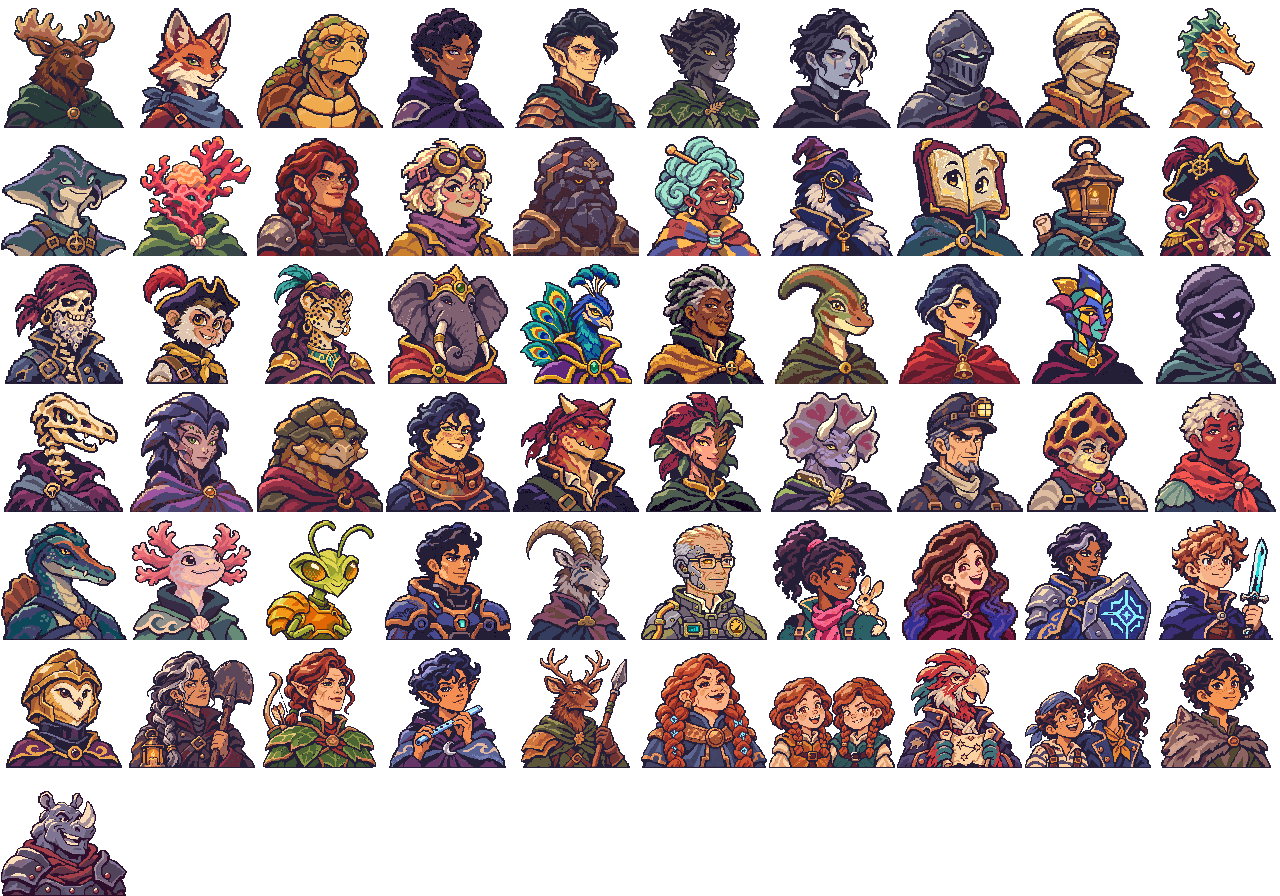
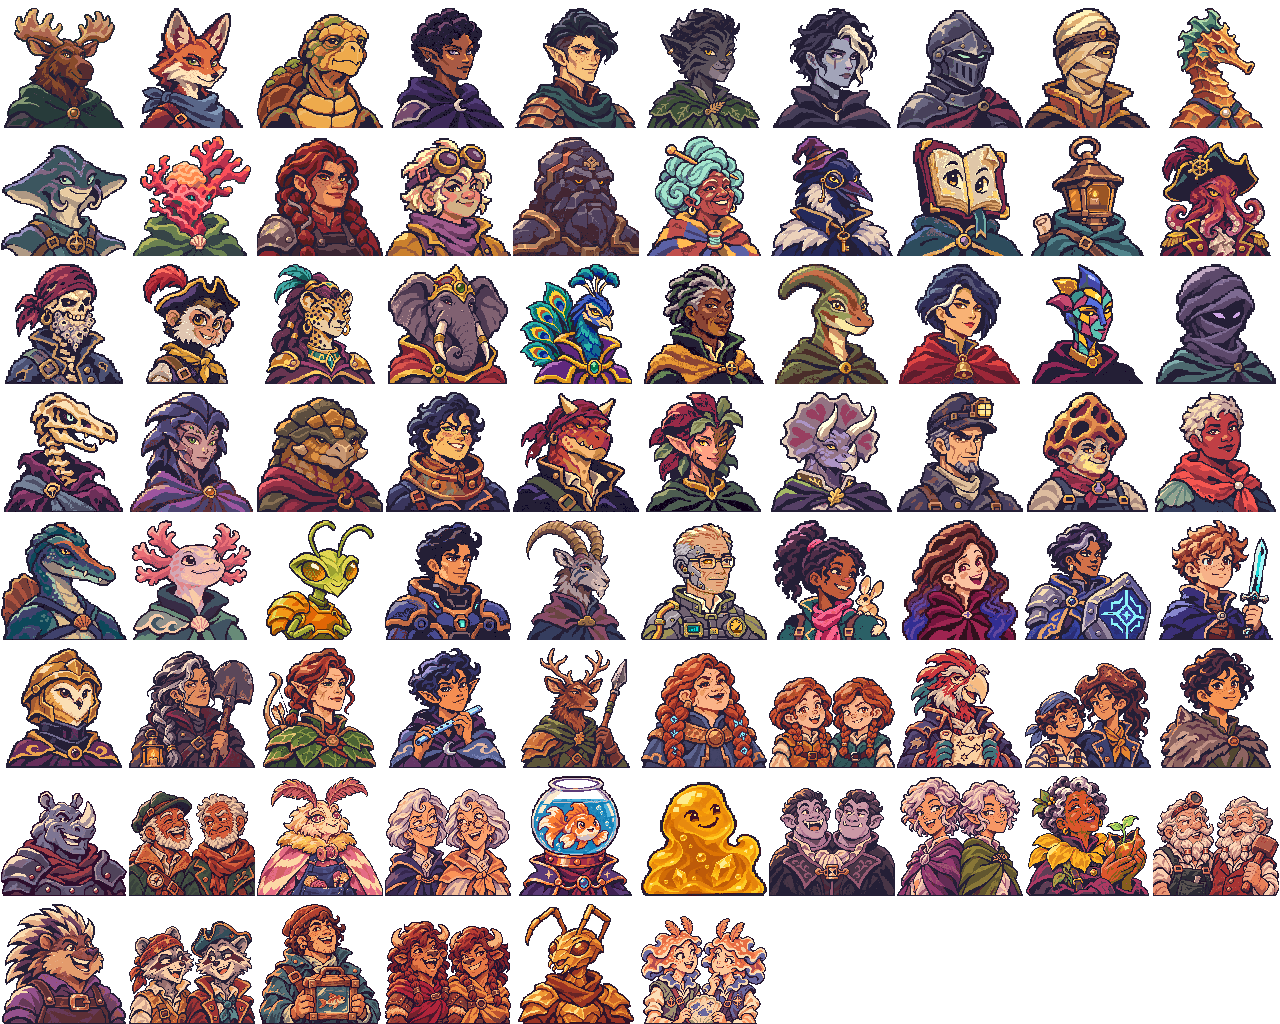
v45: Twins & Tavern Heroes (15 heroes), Merfolk complete, rogue Briar renamed Rusty
Claude-Session: https://claude.ai/code/session_019G5bQC3KGAYpQSZdre1Ejx

diff --git a/js/01-data.js b/js/01-data.js
@@ -186,7 +186,7 @@ HEROES.push(
   {id:'slack',name:'Slack',fac:'dwarves',type:'Might',st:[2,1,2,1],ab:'Hammer and Hex',ad:'Young Dwarves +2 attack, and Ember Dart deals 50% more. Starts with a spellbook.',sk:[],sp:['ember'],fx:{unitAtk:{delver:2},emberPct:1.5}},
   /* v39: each banner shows six heroes (pickers, rivals' first heroes); one more per banner has tav:true and is only met in the tavern ("on the road"). Rogues have no banner. */
   {id:'alderhide',name:'Alderhide',fac:'elves',type:'Might',st:[2,2,1,1],ab:'Moose Guardian',ad:'Elven Riders +1 attack and +2 defense.',sk:['shieldcraft'],sp:[],fx:{unitAtk:{rider:1},unitDef:{rider:2}}},
-  {id:'briar',rogue:true,name:'Briar',fac:'centaurs',type:'Might',st:[2,1,1,1],ab:'Fox Scout',ad:'+2 vision and +10% movement.',sk:['farsight'],sp:[],fx:{vision:2,mpPct:10}},
+  {id:'briar',rogue:true,name:'Rusty',fac:'centaurs',type:'Might',st:[2,1,1,1],ab:'Fox Scout',ad:'+2 vision and +10% movement.',sk:['farsight'],sp:[],fx:{vision:2,mpPct:10}},
   {id:'mossback',name:'Mossback',fac:'elves',type:'Magic',st:[0,2,2,2],ab:'Tortoise Herbalist',ad:'Your whole army +1 defense.',sk:['meditation'],sp:['mend'],fx:{armyDef:1}},
   {id:'ilyra',retired:true,name:'Ilyra',fac:'elves',type:'Magic',st:[0,1,2,2],ab:'Moon Sentinel',ad:'Sprites +3 growth per week and +1 speed.',sk:['arcane'],sp:['entangle'],fx:{growth:{sprite:3},unitSpd:{sprite:1}}},
   {id:'tavian',retired:true,name:'Tavian',fac:'elves',type:'Might',st:[2,1,1,1],ab:'Veteran Duelist',ad:'Elven Riders +2 attack and +1 speed.',sk:['bladework'],sp:[],fx:{unitAtk:{rider:2},unitSpd:{rider:1}}},
@@ -248,6 +248,21 @@ HEROES.push(
   {id:'sid_and_tess',tav:true,name:'Sid & Tess',fac:'pirates',type:'Might',st:[2,1,1,2],ab:'Sibling Swabs',ad:'Deckhands +3 growth per week and +1 speed.',sk:['fortune'],sp:[],fx:{growth:{deckhand:3},unitSpd:{deckhand:1}}},
   {id:'wren',tav:true,name:'Wren',fac:'centaurs',type:'Might',st:[2,1,1,2],ab:'Beast Tamer',ad:'Hounds +2 attack and +2 speed.',sk:['command'],sp:[],fx:{unitAtk:{hounds:2},unitSpd:{hounds:2}}},
   {id:'rumble',tav:true,name:'Rumble',fac:'centaurs',type:'Might',st:[3,2,0,1],ab:'Rhino Brawler',ad:'Boars +2 attack and +1 speed.',sk:['shieldcraft'],sp:[],fx:{unitAtk:{boar:2},unitSpd:{boar:1}}},
+  {id:'gus_and_glen',tav:true,name:'Gus & Glen',fac:'rangers',type:'Might',st:[1,3,1,1],ab:'Trail Wardens',ad:'Thornguard +2 defense, and +10% movement.',sk:['forcedmarch'],sp:[],fx:{unitDef:{thorn:2},mpPct:10}},
+  {id:'midge',tav:true,name:'Midge',fac:'rangers',type:'Magic',st:[0,1,2,3],ab:'Moth Dyer',ad:'Moth Seers +2 attack and +1 speed.',sk:['meditation'],sp:['mend'],fx:{unitAtk:{moth:2},unitSpd:{moth:1}}},
+  {id:'mags_and_mae',tav:true,name:'Mags & Mae',fac:'wizards',type:'Magic',st:[0,1,3,2],ab:'Twin Astronomers',ad:'Storm Elementals +2 attack and +1 speed.',sk:['arcane'],sp:['swift'],fx:{unitAtk:{stormel:2},unitSpd:{stormel:1}}},
+  {id:'bloop',tav:true,name:'Bloop',fac:'wizards',type:'Magic',st:[0,1,2,3],ab:'Fishbowl Sage',ad:'Owl Familiars +3 growth per week and +1 speed.',sk:['learning'],sp:['ember'],fx:{growth:{owl:3},unitSpd:{owl:1}}},
+  {id:'gleam',tav:true,name:'Gleam',fac:'wizards',type:'Magic',st:[0,2,2,2],ab:'Golden Ooze',ad:'+150 gold a day, and Earth Elementals +1 defense.',sk:['estates'],sp:['chain'],fx:{goldDay:150,unitDef:{earthel:1}}},
+  {id:'odo_and_otto',tav:true,name:'Odo & Otto',fac:'necro',type:'Might',st:[3,2,0,1],ab:'Two-Headed Undertakers',ad:'Skeletons +2 attack and +2 defense.',sk:['bladework'],sp:[],fx:{unitAtk:{skeleton:2},unitDef:{skeleton:2}}},
+  {id:'aster_and_briar',tav:true,name:'Aster & Briar',fac:'elves',type:'Magic',st:[0,2,2,2],ab:'Seed Keepers',ad:'Grove Wardens +3 growth per week and +1 defense.',sk:['meditation'],sp:['mend'],fx:{growth:{dryad:3},unitDef:{dryad:1}}},
+  {id:'rue',tav:true,name:'Rue',fac:'elves',type:'Magic',st:[0,1,2,3],ab:'Sunflower Witch',ad:'Mend heals 50% more, and your whole army +1 luck.',sk:['fortune'],sp:['mend'],fx:{mendPct:1.5,luck:1}},
+  {id:'ned_and_nat',tav:true,name:'Ned & Nat',fac:'dwarves',type:'Might',st:[2,2,1,1],ab:'Twin Stonecutters',ad:'Dwarf Crossbowmen +2 attack and +2 defense.',sk:['shieldcraft'],sp:[],fx:{unitAtk:{bolt:2},unitDef:{bolt:2}}},
+  {id:'spike',tav:true,name:'Spike',fac:'dwarves',type:'Might',st:[2,3,0,1],ab:'Porcupine Armorer',ad:'Your whole army +1 defense, and Dwarf Paladins +1 attack.',sk:['shieldcraft'],sp:[],fx:{armyDef:1,unitAtk:{paladin:1}}},
+  {id:'rafe_and_reed',tav:true,name:'Rafe & Reed',fac:'pirates',type:'Might',st:[2,1,1,2],ab:'Salvage Captains',ad:'+150 gold a day, and Duelists +1 attack.',sk:['seamanship'],sp:[],fx:{goldDay:150,unitAtk:{duelist:1}}},
+  {id:'bo',tav:true,name:'Bo',fac:'pirates',type:'Might',st:[2,1,1,2],ab:'Fish-Box Courier',ad:'+15% movement, and Powder Monkeys +1 speed.',sk:['forcedmarch'],sp:[],fx:{mpPct:15,unitSpd:{powder:1}}},
+  {id:'bess_and_bea',tav:true,name:'Bess & Bea',fac:'centaurs',type:'Might',st:[2,3,0,1],ab:'Caravan Guards',ad:'Centaurs +2 attack and +2 defense.',sk:['shieldcraft'],sp:[],fx:{unitAtk:{centaur:2},unitDef:{centaur:2}}},
+  {id:'gilt',tav:true,name:'Gilt',fac:'centaurs',type:'Might',st:[2,1,1,2],ab:'Tunnel Scout',ad:'+2 vision, and War Rabbits +2 attack.',sk:['farsight'],sp:[],fx:{vision:2,unitAtk:{rabbit:2}}},
+  {id:'fin_and_flo',name:'Fin & Flo',fac:'merfolk',type:'Magic',st:[0,1,3,2],ab:'Reef Chartmakers',ad:'Giant Crabs +2 attack and +2 defense.',sk:['seamanship'],sp:['squall'],fx:{unitAtk:{crab:2},unitDef:{crab:2}}},
   {id:'eden',name:'Eden',fac:'elves',type:'Magic',st:[0,1,2,2],ab:'Master Archer',ad:'Longbow Rangers +1 damage and +4 shots.',sk:['steadyaim'],sp:[],fx:{unitDmgFlat:{longbow:1},unitShots:{longbow:4}}},
   {id:'letchworth',name:'Letchworth',fac:'merfolk',type:'Magic',st:[0,1,2,2],ab:'Siren Keeper',ad:'Sirens +2 shots and +1 damage.',sk:[],sp:['squall'],fx:{unitShots:{siren:2},unitDmgFlat:{siren:1}}},
 );
@@ -311,7 +326,7 @@ const START_KIT={bear:['command','sash'],perry:['shieldcraft','buckler'],boone:[
   elvis:['command','sash'],mer2:['shieldcraft','kettle'],rocky:['forcedmarch','sash'],letchworth:['meditation','breath']};
 HEROES.forEach(h=>{const k=START_KIT[h.id];if(k){h.sk=[k[0]];h.item=k[1];}});
 /* v41: every hero starts with an artifact (the newer heroes had none) */
-const START_ITEM={'vera':'buckler','remy':'spark','ada':'cloak','mara':'candle','ivy':'bracer','lune':'inkwell','hart':'errands','orla':'breath','kit_and_nell':'purse','cato':'inkwell','sid_and_tess':'rabbit','wren':'errands','rumble':'buckler','payton':'rabbit','nissa':'cloak','livingston_cyborg':'bracer','enzo':'buckler','axel':'breath','dot':'errands','gale':'spark','zahara': 'errands', 'tembor': 'buckler', 'cresset': 'candle', 'nessa_holt': 'errands', 'reedcall': 'bracer', 'purl': 'inkwell', 'quillby': 'purse', 'sera_venn': 'breath', 'gliss': 'spark', 'veyra': 'spark', 'graven': 'buckler', 'ossin': 'inkwell', 'murmur': 'cloak', 'rattleclaw': 'whetstone', 'silka': 'candle', 'flintback': 'kettle', 'inkwake': 'cudgel', 'saltjaw': 'whetstone', 'pip_quickline': 'cloak', 'bess_bell': 'errands', 'rusk_hookhorn': 'cudgel', 'ilyra': 'breath', 'tavian': 'whetstone', 'yselle': 'inkwell', 'aster': 'candle', 'thornfrill': 'buckler', 'brynja': 'cudgel', 'tansy': 'bracer', 'kiln': 'kettle', 'harlan_chalk': 'buckler', 'morel': 'rabbit', 'spindle': 'errands', 'skimmer': 'whetstone', 'atoll': 'spark', 'iona_shoal': 'breath', 'nerka': 'cudgel', 'alderhide': 'buckler', 'briar': 'cloak', 'mossback': 'breath', 'virel': 'rabbit'};
+const START_ITEM={'gus_and_glen':'errands','midge':'inkwell','mags_and_mae':'spark','bloop':'inkwell','gleam':'purse','odo_and_otto':'buckler','aster_and_briar':'breath','rue':'cloak','ned_and_nat':'bracer','spike':'buckler','rafe_and_reed':'purse','bo':'errands','bess_and_bea':'buckler','gilt':'rabbit','fin_and_flo':'breath','vera':'buckler','remy':'spark','ada':'cloak','mara':'candle','ivy':'bracer','lune':'inkwell','hart':'errands','orla':'breath','kit_and_nell':'purse','cato':'inkwell','sid_and_tess':'rabbit','wren':'errands','rumble':'buckler','payton':'rabbit','nissa':'cloak','livingston_cyborg':'bracer','enzo':'buckler','axel':'breath','dot':'errands','gale':'spark','zahara': 'errands', 'tembor': 'buckler', 'cresset': 'candle', 'nessa_holt': 'errands', 'reedcall': 'bracer', 'purl': 'inkwell', 'quillby': 'purse', 'sera_venn': 'breath', 'gliss': 'spark', 'veyra': 'spark', 'graven': 'buckler', 'ossin': 'inkwell', 'murmur': 'cloak', 'rattleclaw': 'whetstone', 'silka': 'candle', 'flintback': 'kettle', 'inkwake': 'cudgel', 'saltjaw': 'whetstone', 'pip_quickline': 'cloak', 'bess_bell': 'errands', 'rusk_hookhorn': 'cudgel', 'ilyra': 'breath', 'tavian': 'whetstone', 'yselle': 'inkwell', 'aster': 'candle', 'thornfrill': 'buckler', 'brynja': 'cudgel', 'tansy': 'bracer', 'kiln': 'kettle', 'harlan_chalk': 'buckler', 'morel': 'rabbit', 'spindle': 'errands', 'skimmer': 'whetstone', 'atoll': 'spark', 'iona_shoal': 'breath', 'nerka': 'cudgel', 'alderhide': 'buckler', 'briar': 'cloak', 'mossback': 'breath', 'virel': 'rabbit'};
 HEROES.forEach(h=>{if(!h.item&&START_ITEM[h.id])h.item=START_ITEM[h.id];});
 /* starting stats: one higher across the board, more on each hero's main stat, and a personal extra point */
 for(const h of HEROES){if(h._st)continue;h._st=1;const r=hash(h.id);h.st=h.st.map(v=>v+1);const main=h.type==='Might'?(h.st[0]>=h.st[1]?0:1):(h.st[2]>=h.st[3]?2:3);h.st[main]+=1+(r%2);h.st[(r>>>3)%4]+=1;}

diff --git a/js/02-art.js b/js/02-art.js
@@ -237,7 +237,7 @@ function drawRelic(c,i,x,y,r){const Rl=RELICS[i];c.save();c.translate(x,y);c.sca
 const ART_BASE='assets/';
 /* Tavern Recruits (v37): 19 portraits packed in portraits/heroes/recruits.png (10 a row, 128 px) so the published copy stays under its file limit.
    Cropped to a data URL once the atlas loads; on file:// (canvas export blocked) or before it loads, use the single file. */
-const RECRUIT_PORT=['alderhide','briar','mossback','ilyra','tavian','yselle','veyra','graven','ossin','spindle','skimmer','atoll','brynja','tansy','kiln','purl','quillby','folio','cresset','inkwake','saltjaw','pip_quickline','zahara','tembor','virel','nessa_holt','reedcall','sera_venn','gliss','murmur','rattleclaw','silka','flintback','bess_bell','rusk_hookhorn','aster','thornfrill','harlan_chalk','morel','iona_shoal','nerka','axel','dot','enzo','gale','livingston_cyborg','nissa','payton','vera','remy','ada','mara','ivy','lune','hart','orla','kit_and_nell','cato','sid_and_tess','wren','rumble'];
+const RECRUIT_PORT=['alderhide','briar','mossback','ilyra','tavian','yselle','veyra','graven','ossin','spindle','skimmer','atoll','brynja','tansy','kiln','purl','quillby','folio','cresset','inkwake','saltjaw','pip_quickline','zahara','tembor','virel','nessa_holt','reedcall','sera_venn','gliss','murmur','rattleclaw','silka','flintback','bess_bell','rusk_hookhorn','aster','thornfrill','harlan_chalk','morel','iona_shoal','nerka','axel','dot','enzo','gale','livingston_cyborg','nissa','payton','vera','remy','ada','mara','ivy','lune','hart','orla','kit_and_nell','cato','sid_and_tess','wren','rumble','gus_and_glen','midge','mags_and_mae','bloop','gleam','odo_and_otto','aster_and_briar','rue','ned_and_nat','spike','rafe_and_reed','bo','bess_and_bea','gilt','fin_and_flo'];
 const recruitCache={};
 function recruitPortrait(id){if(recruitCache[id])return recruitCache[id];const a=artImg('portraits/heroes/recruits.png'),i=RECRUIT_PORT.indexOf(id),file=ART_BASE+`portraits/heroes/${id}_128.png`;
   if(!a.ok)return file;try{const cv=document.createElement('canvas');cv.width=cv.height=128;cv.getContext('2d').drawImage(a.img,(i%10)*128,Math.floor(i/10)*128,128,128,0,0,128,128);return recruitCache[id]=cv.toDataURL();}catch(e){return recruitCache[id]=file;}}

diff --git a/js/10-save.js b/js/10-save.js
@@ -63,7 +63,7 @@ function migrateRoster(st){if(!st||st.roster>=2)return;const M={};for(const[f,ol
   walk(st);st.roster=2;}
 /* saves from before v25: new resources, and cities and rival homes you already hold become full towns */
 /* v43 renames: old default name → new name, applied to saved heroes that still carry the old name */
-const OLD_NAMES={reedcall:['Reedcall','Crestwind'],veyra:['Veyra','Vesra','Mira','Willa'],ossin:['Ossin','Osrin','Dusty'],graven:['Graven','Lore'],zahara:['Zahara','Zarra'],tembor:['Tembor','India'],cresset:['Cresset','Wick'],yselle:['Yselle','Fern'],atoll:['Atoll','Coral'],bess_bell:['Bess Bell','Bonnie'],virel:['Virel','Plume'],silka:['Silka','Ivy','Violet'],murmur:['Murmur','Hush'],tansy:['Tansy','Penny']};
+const OLD_NAMES={reedcall:['Reedcall','Crestwind'],veyra:['Veyra','Vesra','Mira','Willa'],ossin:['Ossin','Osrin','Dusty'],graven:['Graven','Lore'],zahara:['Zahara','Zarra'],tembor:['Tembor','India'],cresset:['Cresset','Wick'],yselle:['Yselle','Fern'],atoll:['Atoll','Coral'],bess_bell:['Bess Bell','Bonnie'],virel:['Virel','Plume'],silka:['Silka','Ivy','Violet'],murmur:['Murmur','Hush'],tansy:['Tansy','Penny'],briar:['Briar','Rusty']};
 function migrateTowns(st){[...(st.heroes||[]),...(st.rivals||[]),...((st.players||[]).flatMap(p=>p&&p.heroes||[]))].forEach(h=>{if(h&&h.id==='elvis'&&h.name==='Elvis')h.name='Eelvis';if(h&&OLD_NAMES[h.id]&&OLD_NAMES[h.id].slice(0,-1).includes(h.name))h.name=OLD_NAMES[h.id].at(-1);});/* v27: the Ranger is now id perry and the Elf id eden (ids match names; new portraits) */
   if(!st.ids27){st.ids27=1;for(const h of [...(st.heroes||[]),...(st.rivals||[]),...(st.players||[]).flatMap(q=>q.heroes||[])]){if(h.id==='eden'){h.id='perry';if(h.name==='Eden'||h.name==='Perry')h.name='Perry';}else if(h.id==='perry'){h.id='eden';if(h.name==='Perry'||h.name==='Eden')h.name='Eden';}}}
   const fix=r=>{if(r)for(const k of RES)if(r[k]==null)r[k]=0;};fix(st.res);(st.players||[]).forEach(q=>fix(q.res));

diff --git a/CLAUDE.md b/CLAUDE.md
@@ -223,6 +223,10 @@ Everything lives in one object, `S`, so it can be saved as JSON:
 - New ability hooks (player side only): `forgePlus` (extra Great Forge attack), `armyDef` (whole army defense), `rangedPct` (shooter damage), `halfCost` (one spell at half mana), `manaCut` (all spells cheaper), `squallPct`, `weakenPct`.
 - Raised: Ivan (Forge half ore, +1 more attack), Oliver (30% cheaper rough ground, +5% movement), Shadow (harvest 20%), Sheila (Squall +30%), Grimes and Griffiths (+1 speed to their troop). Made distinct: Veyra, Gliss, Silka, Murmur, Boone, Mossback, Aster, Nessa Holt. Trimmed: Schmickle and Quillby to +200 gold a day. Battaglia is a Might hero.
 
+### v45 twins and tavern heroes
+
+- Twins & Tavern Heroes pack: 15 more heroes (Spur and Flick left out). Fin & Flo complete the Merfolk's eight picks; the rest are wanderers (`tav:true`): Rangers Gus & Glen, Midge; Wizards Mags & Mae, Bloop, Gleam; Necromancers Odo & Otto; Elves Aster & Briar, Rue; Dwarves Ned & Nat, Spike; Pirates Rafe & Reed, Bo; Beastmasters Bess & Bea, Gilt. Every banner now has 8 picks and 2-5 wanderers; the tavern shows two of them, rotating weekly. The rogue Briar is now Rusty. `RECRUIT_PORT`/`recruits.png` hold 76 portraits (8 rows).
+
 ### v44 banner heroes and title screen
 
 - Banner Heroes pack: 13 new heroes (picks Vera, Remy (Wizards), Ivy, Lune (Elves), Kit & Nell (Dwarves); wanderers Ada (Wizards), Mara (Necromancers), Hart (Elves), Orla (Dwarves), Cato and Sid & Tess (Pirates), Wren and Rumble (Beastmasters)) and redrawn portraits for Payton, Livingston (cyborg), Wick, Lore, Axel, Dot, Gale, Nissa, Mossback, Alderhide, Enzo, India and Fern. Crestwind and Thornfrill are Rangers picks again, Enzo a Dwarves pick, Rusk Hookhorn a rogue. Silka is now Violet and Vesra Willa (the pack's Ivy and Mara took those names). Every banner has 8 picks and 2 wanderers except Merfolk (7 picks). `RECRUIT_PORT`/`recruits.png` hold 61 portraits (7 rows).

diff --git a/LEGAL.md b/LEGAL.md
@@ -59,6 +59,7 @@ No other libraries, images or audio are included. Art made later with ChatGPT or
 | City Scenes: redrawn 960×360 town scenery for all eight banners (`assets/towns/wings.png`) | Supplied by the author (generated pixel art, ChatGPT), packed locally | 2026-11-12 | Original scenes |
 | Final Roster: 13 hero portraits (Peyto, Nissa, the second Livingston, Enzo, Axel, Dot, Gale, Wick, Lore, Fern, Mossback, Alderhide, India) in `assets/portraits/heroes/` and `recruits.png` | Supplied by the author (generated pixel art, ChatGPT) | 2026-11-13 | Invented characters; any modelled on real people are used with their permission and carry no surnames beyond what the author approved |
 | Banner Heroes: 13 new hero portraits and 13 redraws in `assets/portraits/heroes/` and `recruits.png` | Supplied by the author (generated pixel art, ChatGPT) | 2026-11-13 | Invented characters; any modelled on real people are used with their permission |
+| Twins & Tavern Heroes: 15 hero portraits in `assets/portraits/heroes/` and `recruits.png` | Supplied by the author (generated pixel art, ChatGPT) | 2026-11-13 | Invented characters |
 | Half-size move cursor (`assets/ui/cursors/move_small.png`) | Downscaled locally from Pack 09's move cursor | 2026-11-08 | Same as above |
 
 The generated source images (high-res magenta PNGs) are kept outside this repo.

diff --git a/ART_REQUEST_NEXT.md b/ART_REQUEST_NEXT.md
@@ -2,13 +2,9 @@
 
 Match the existing packs: warm storybook pixel art, dark plum outline, light from the upper left, transparent PNGs, nearest-neighbour only, original characters.
 
-## 1. Hero portraits to finish the roster (1)
+## 1. Hero portraits
 
-Every banner has 8 heroes to pick and 2 tavern wanderers except the Merfolk.
-
-| Banner | Slot | Gender | Age | Human? | Type | Idea |
-|---|---|---|---|---|---|---|
-| Merfolk | pick | female | young | merfolk | Magic | tide singer with a conch shell |
+The roster is complete: every banner has 8 heroes to pick and at least 2 tavern wanderers.
 
 ## 2. Reworks
 
